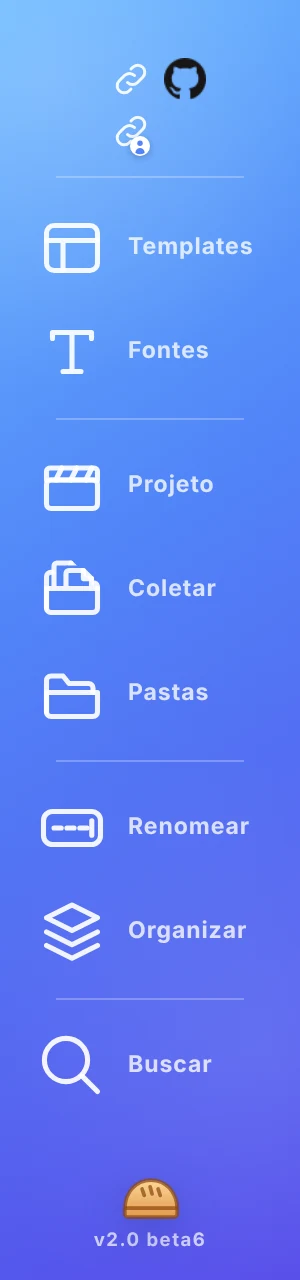
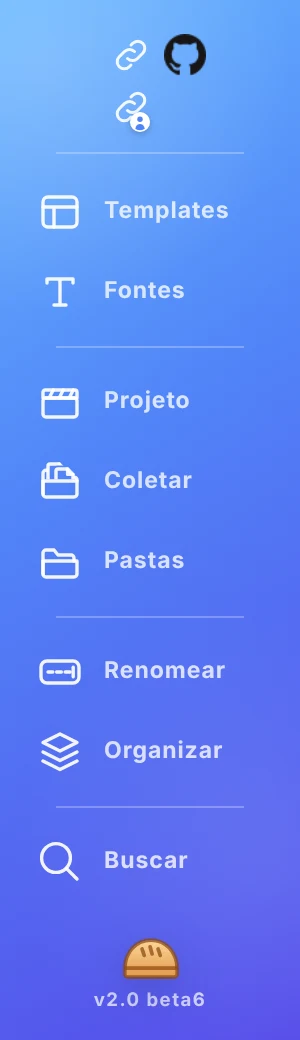
Barra: ícones das ferramentas de volta a 24 px; links em linha única na horizontal
Na horizontal os links ficam numa linha só (30 px); de 2 em 2 só no layout
vertical. Imagens da barra na documentação refeitas.

Claude-Session: https://claude.ai/code/session_01DrYHfUyMEmqYvcFyKefNe2

diff --git a/extension/client/css/bar.css b/extension/client/css/bar.css
@@ -211,18 +211,18 @@ body.bar-page {
   transform: translateY(-1px) scale(1.08);
 }
 
-/* os links são menores que as ferramentas: de 2 em 2 (na horizontal, 2 por coluna; na vertical, 2 por linha) */
+/* na horizontal, os links ficam numa linha só; na vertical, de 2 em 2 (abaixo, no layout vertical) */
 #links {
   display: grid;
   grid-auto-flow: column;
-  grid-template-rows: repeat(2, 26px);
+  grid-template-rows: 30px;
   align-content: center;
-  gap: 0 1px;
+  gap: 2px;
 }
 
 #links .bar-link {
-  width: 26px;
-  height: 26px;
+  width: 30px;
+  height: 30px;
 }
 
 #links .bar-link img,
@@ -256,8 +256,8 @@ body.bar-page {
 
 .bar-icon svg,
 .bar-btn svg {
-  width: 36px;
-  height: 36px;
+  width: 24px;
+  height: 24px;
   overflow: visible;
   fill: none;
   stroke: currentcolor;
@@ -403,6 +403,12 @@ body.bar-page {
     grid-template-columns: repeat(2, 26px);
     grid-template-rows: none;
     justify-content: center;
+    gap: 0 1px;
+  }
+
+  #links .bar-link {
+    width: 26px;
+    height: 26px;
   }
 
   .bar-tools {
